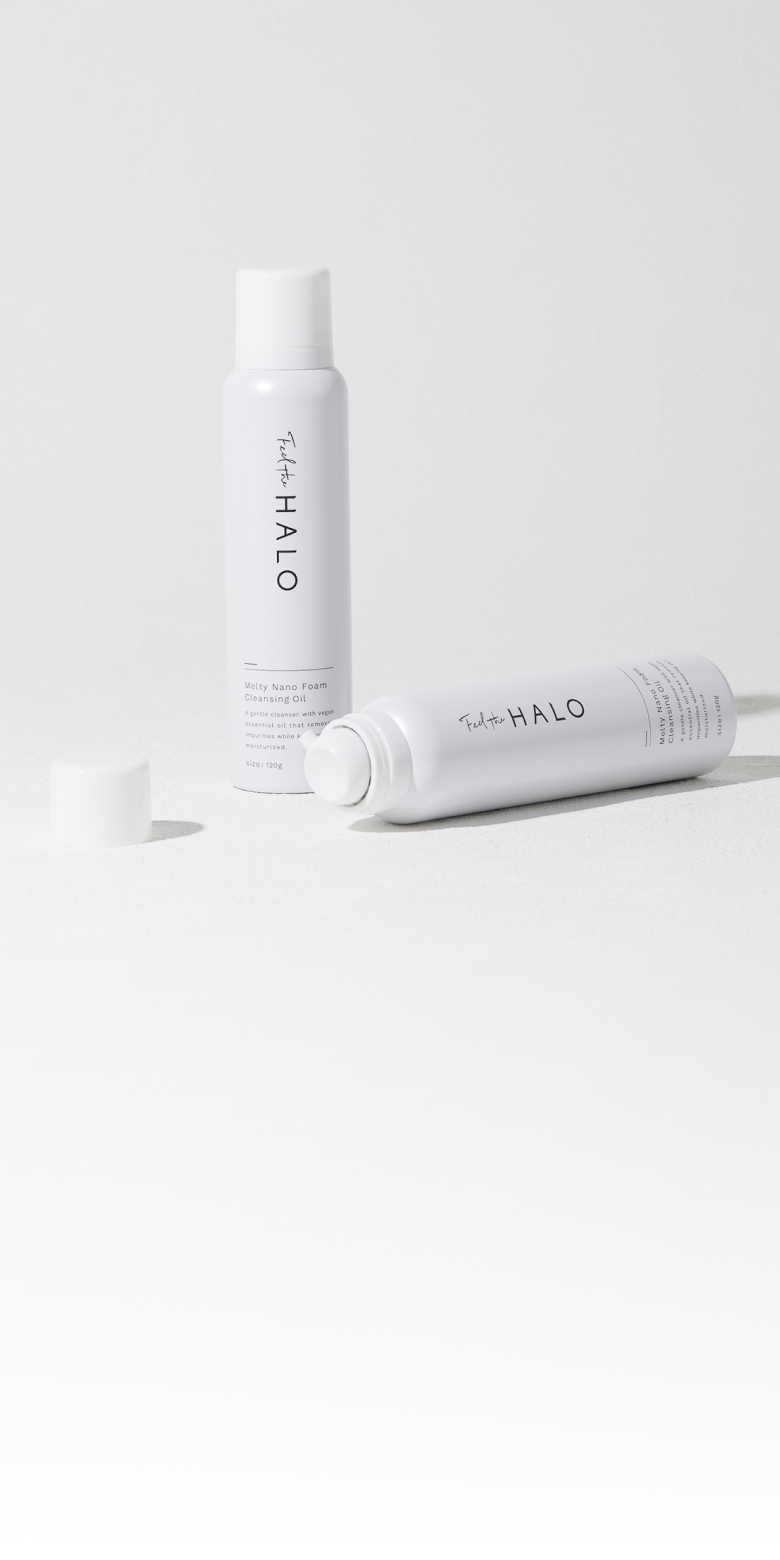
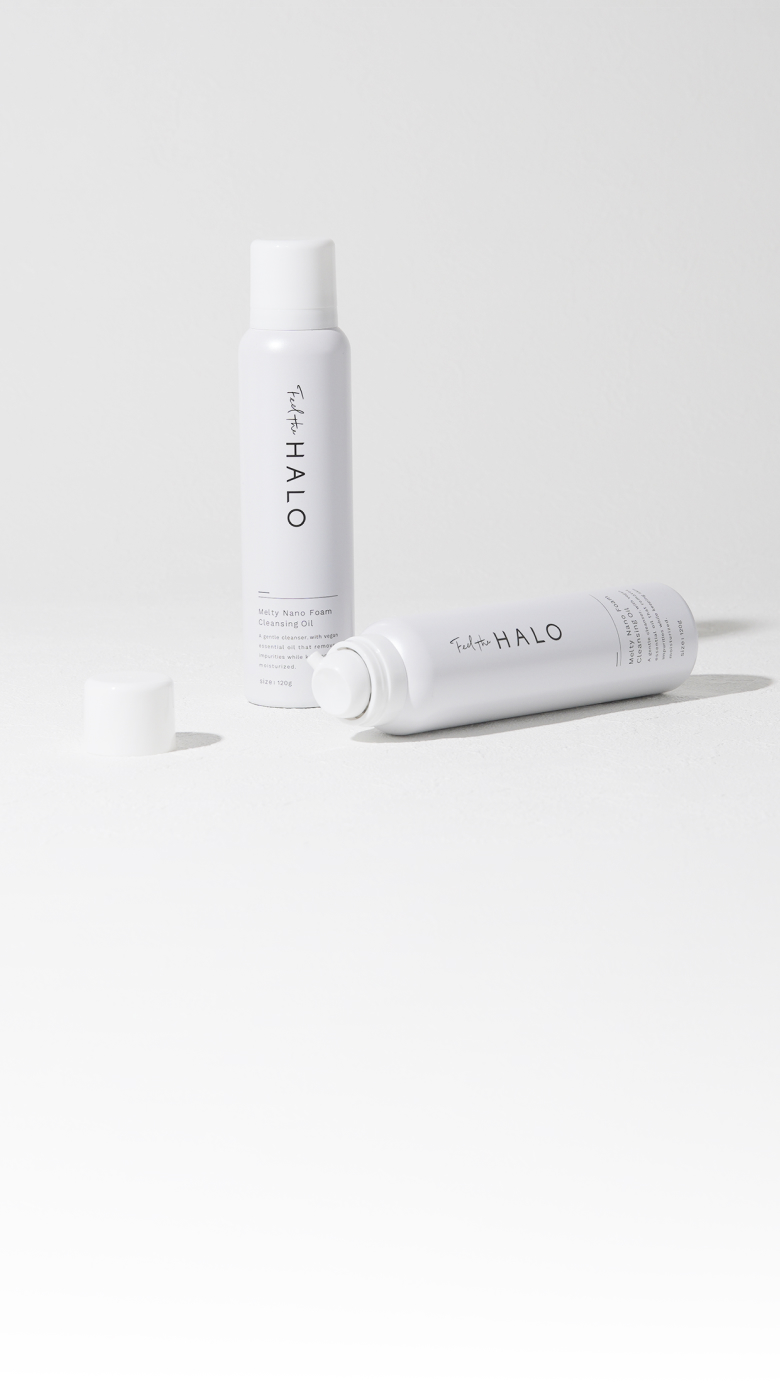
MV画像差し替え

diff --git a/scss/index.scss b/scss/index.scss
@@ -38,7 +38,7 @@ main {
     .mv {
         background: url(../img/mv_bg.jpg) no-repeat;
         background-size: cover;
-        padding: 480px 0 40px;
+        padding: 400px 0 40px;
         margin-bottom: 100px;
 
         .mv_area {

diff --git a/css/index.css b/css/index.css
@@ -35,7 +35,7 @@ body {
 main .mv {
   background: url(../img/mv_bg.jpg) no-repeat;
   background-size: cover;
-  padding: 480px 0 40px;
+  padding: 400px 0 40px;
   margin-bottom: 100px;
 }
 main .mv .mv_area {
